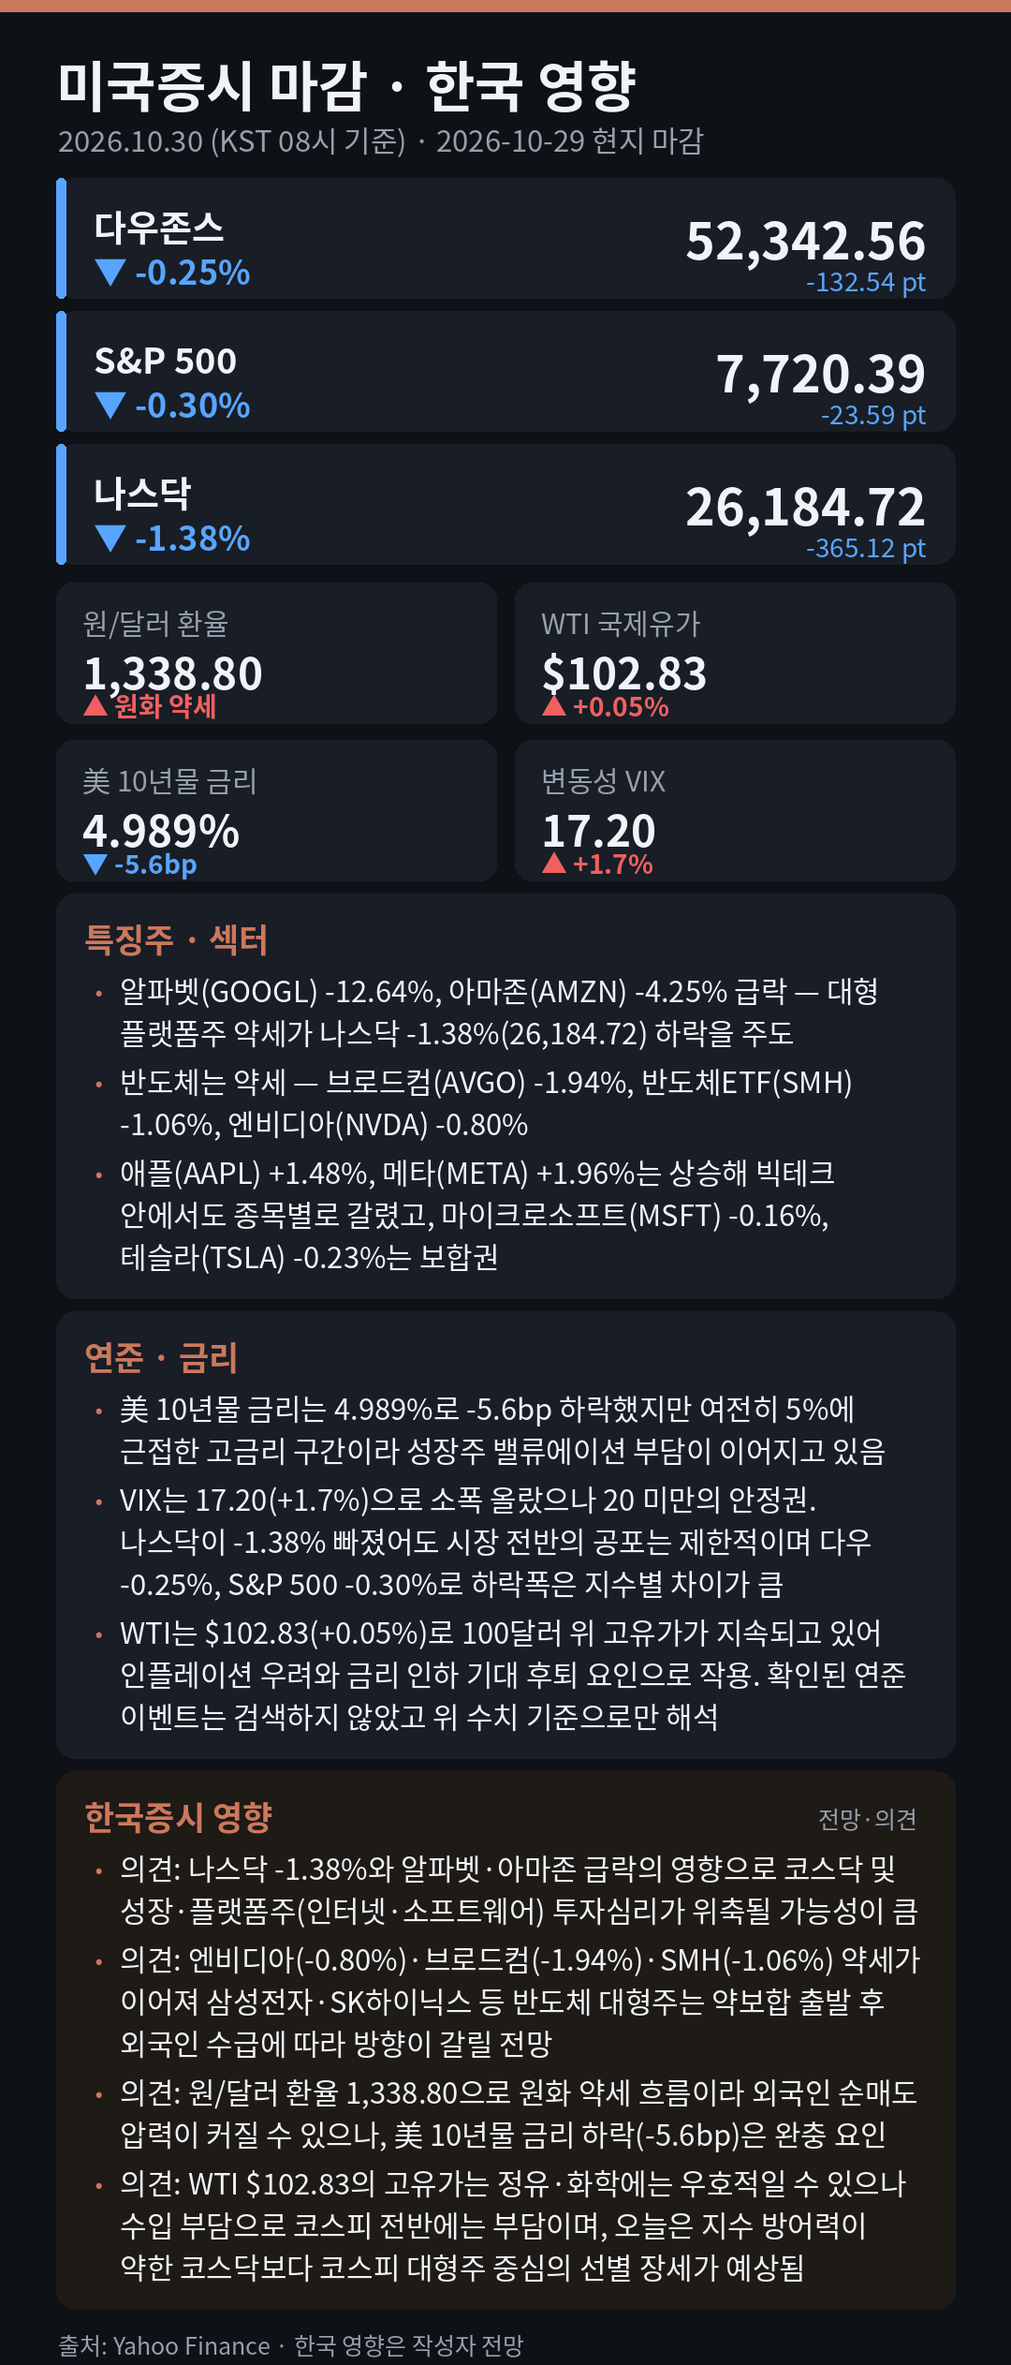
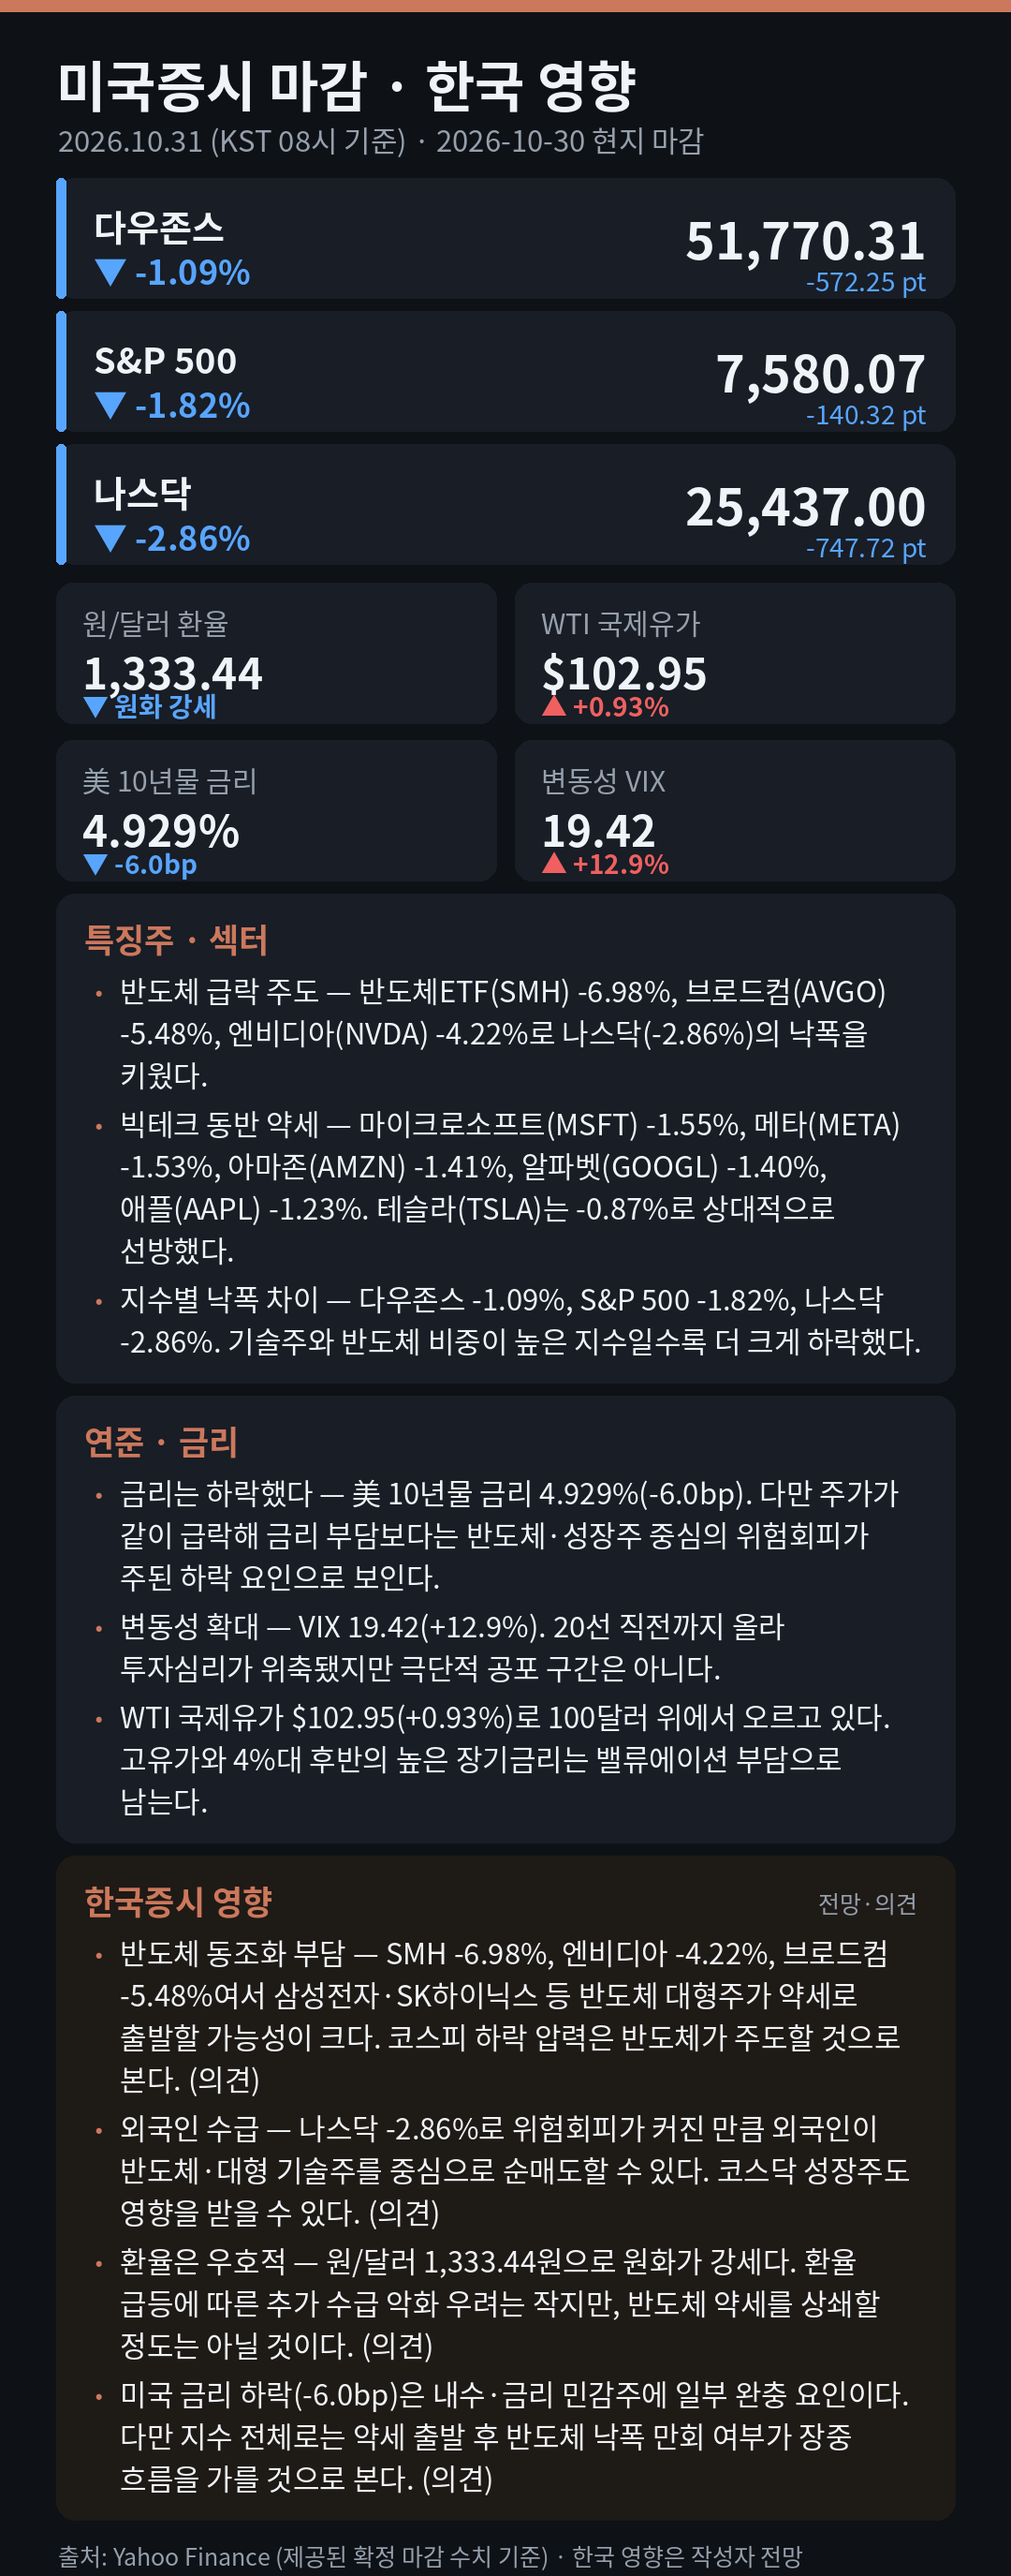
브리핑 2026-10-30 자동 발행

Changed region(s): [[0.0306, 0.0, 0.9167, 1.0], [0.8556, 0.556, 0.8861, 0.5869]]

diff --git a/index.html b/index.html
@@ -14,8 +14,8 @@ a{color:#58a5ff;text-decoration:none} .s{color:#8a93a0;font-size:12px;float:righ
 </style></head><body><div class="wrap">
 <h1>미국증시 마감 브리핑</h1>
 <p class="sub">매일 아침(KST 08:02) 자동 업데이트 · 숫자는 Yahoo Finance 기준, 한국 영향은 전망</p>
-<img class="card" src="img/2026-10-29.png?v=2026-10-29" alt="2026-10-29 미국증시 마감"><p class="d">2026-10-29 현지 마감</p>
+<img class="card" src="img/2026-10-30.png?v=2026-10-30" alt="2026-10-30 미국증시 마감"><p class="d">2026-10-30 현지 마감</p>
 <h2>지난 브리핑</h2>
-<ul><li><a href="img/2026-10-29.png">2026-10-29</a> <span class="s">다우존스 -0.25% · S&P 500 -0.30% · 나스닥 -1.38%</span></li><li><a href="img/2026-10-28.png">2026-10-28</a> <span class="s">다우존스 +0.19% · S&P 500 +0.28% · 나스닥 +0.27%</span></li><li><a href="img/2026-10-27.png">2026-10-27</a> <span class="s">다우존스 +0.03% · S&P 500 +0.60% · 나스닥 +1.18%</span></li><li><a href="img/2026-10-26.png">2026-10-26</a> <span class="s">다우존스 +0.28% · S&P 500 +0.70% · 나스닥 +0.82%</span></li><li><a href="img/2026-10-23.png">2026-10-23</a> <span class="s">다우존스 -1.23% · S&P 500 -0.52% · 나스닥 -0.21%</span></li><li><a href="img/2026-10-22.png">2026-10-22</a> <span class="s">다우존스 +0.71% · S&P 500 -0.64% · 나스닥 -1.57%</span></li><li><a href="img/2026-10-21.png">2026-10-21</a> <span class="s">다우존스 +0.69% · S&P 500 +0.58% · 나스닥 +1.05%</span></li><li><a href="img/2026-10-20.png">2026-10-20</a> <span class="s">다우존스 +1.02% · S&P 500 +0.28% · 나스닥 -0.02%</span></li><li><a href="img/2026-10-19.png">2026-10-19</a> <span class="s">다우존스 -0.07% · S&P 500 +0.41% · 나스닥 +1.11%</span></li><li><a href="img/2026-10-16.png">2026-10-16</a> <span class="s">다우존스 -0.34% · S&P 500 -1.09% · 나스닥 -2.15%</span></li><li><a href="img/2026-10-15.png">2026-10-15</a> <span class="s">다우존스 +1.08% · S&P 500 +0.33% · 나스닥 +0.08%</span></li></ul>
+<ul><li><a href="img/2026-10-30.png">2026-10-30</a> <span class="s">다우존스 -1.09% · S&P 500 -1.82% · 나스닥 -2.86%</span></li><li><a href="img/2026-10-29.png">2026-10-29</a> <span class="s">다우존스 -0.25% · S&P 500 -0.30% · 나스닥 -1.38%</span></li><li><a href="img/2026-10-28.png">2026-10-28</a> <span class="s">다우존스 +0.19% · S&P 500 +0.28% · 나스닥 +0.27%</span></li><li><a href="img/2026-10-27.png">2026-10-27</a> <span class="s">다우존스 +0.03% · S&P 500 +0.60% · 나스닥 +1.18%</span></li><li><a href="img/2026-10-26.png">2026-10-26</a> <span class="s">다우존스 +0.28% · S&P 500 +0.70% · 나스닥 +0.82%</span></li><li><a href="img/2026-10-23.png">2026-10-23</a> <span class="s">다우존스 -1.23% · S&P 500 -0.52% · 나스닥 -0.21%</span></li><li><a href="img/2026-10-22.png">2026-10-22</a> <span class="s">다우존스 +0.71% · S&P 500 -0.64% · 나스닥 -1.57%</span></li><li><a href="img/2026-10-21.png">2026-10-21</a> <span class="s">다우존스 +0.69% · S&P 500 +0.58% · 나스닥 +1.05%</span></li><li><a href="img/2026-10-20.png">2026-10-20</a> <span class="s">다우존스 +1.02% · S&P 500 +0.28% · 나스닥 -0.02%</span></li><li><a href="img/2026-10-19.png">2026-10-19</a> <span class="s">다우존스 -0.07% · S&P 500 +0.41% · 나스닥 +1.11%</span></li><li><a href="img/2026-10-16.png">2026-10-16</a> <span class="s">다우존스 -0.34% · S&P 500 -1.09% · 나스닥 -2.15%</span></li></ul>
 <p class="foot">자동 생성 · Navis</p>
 </div></body></html>
